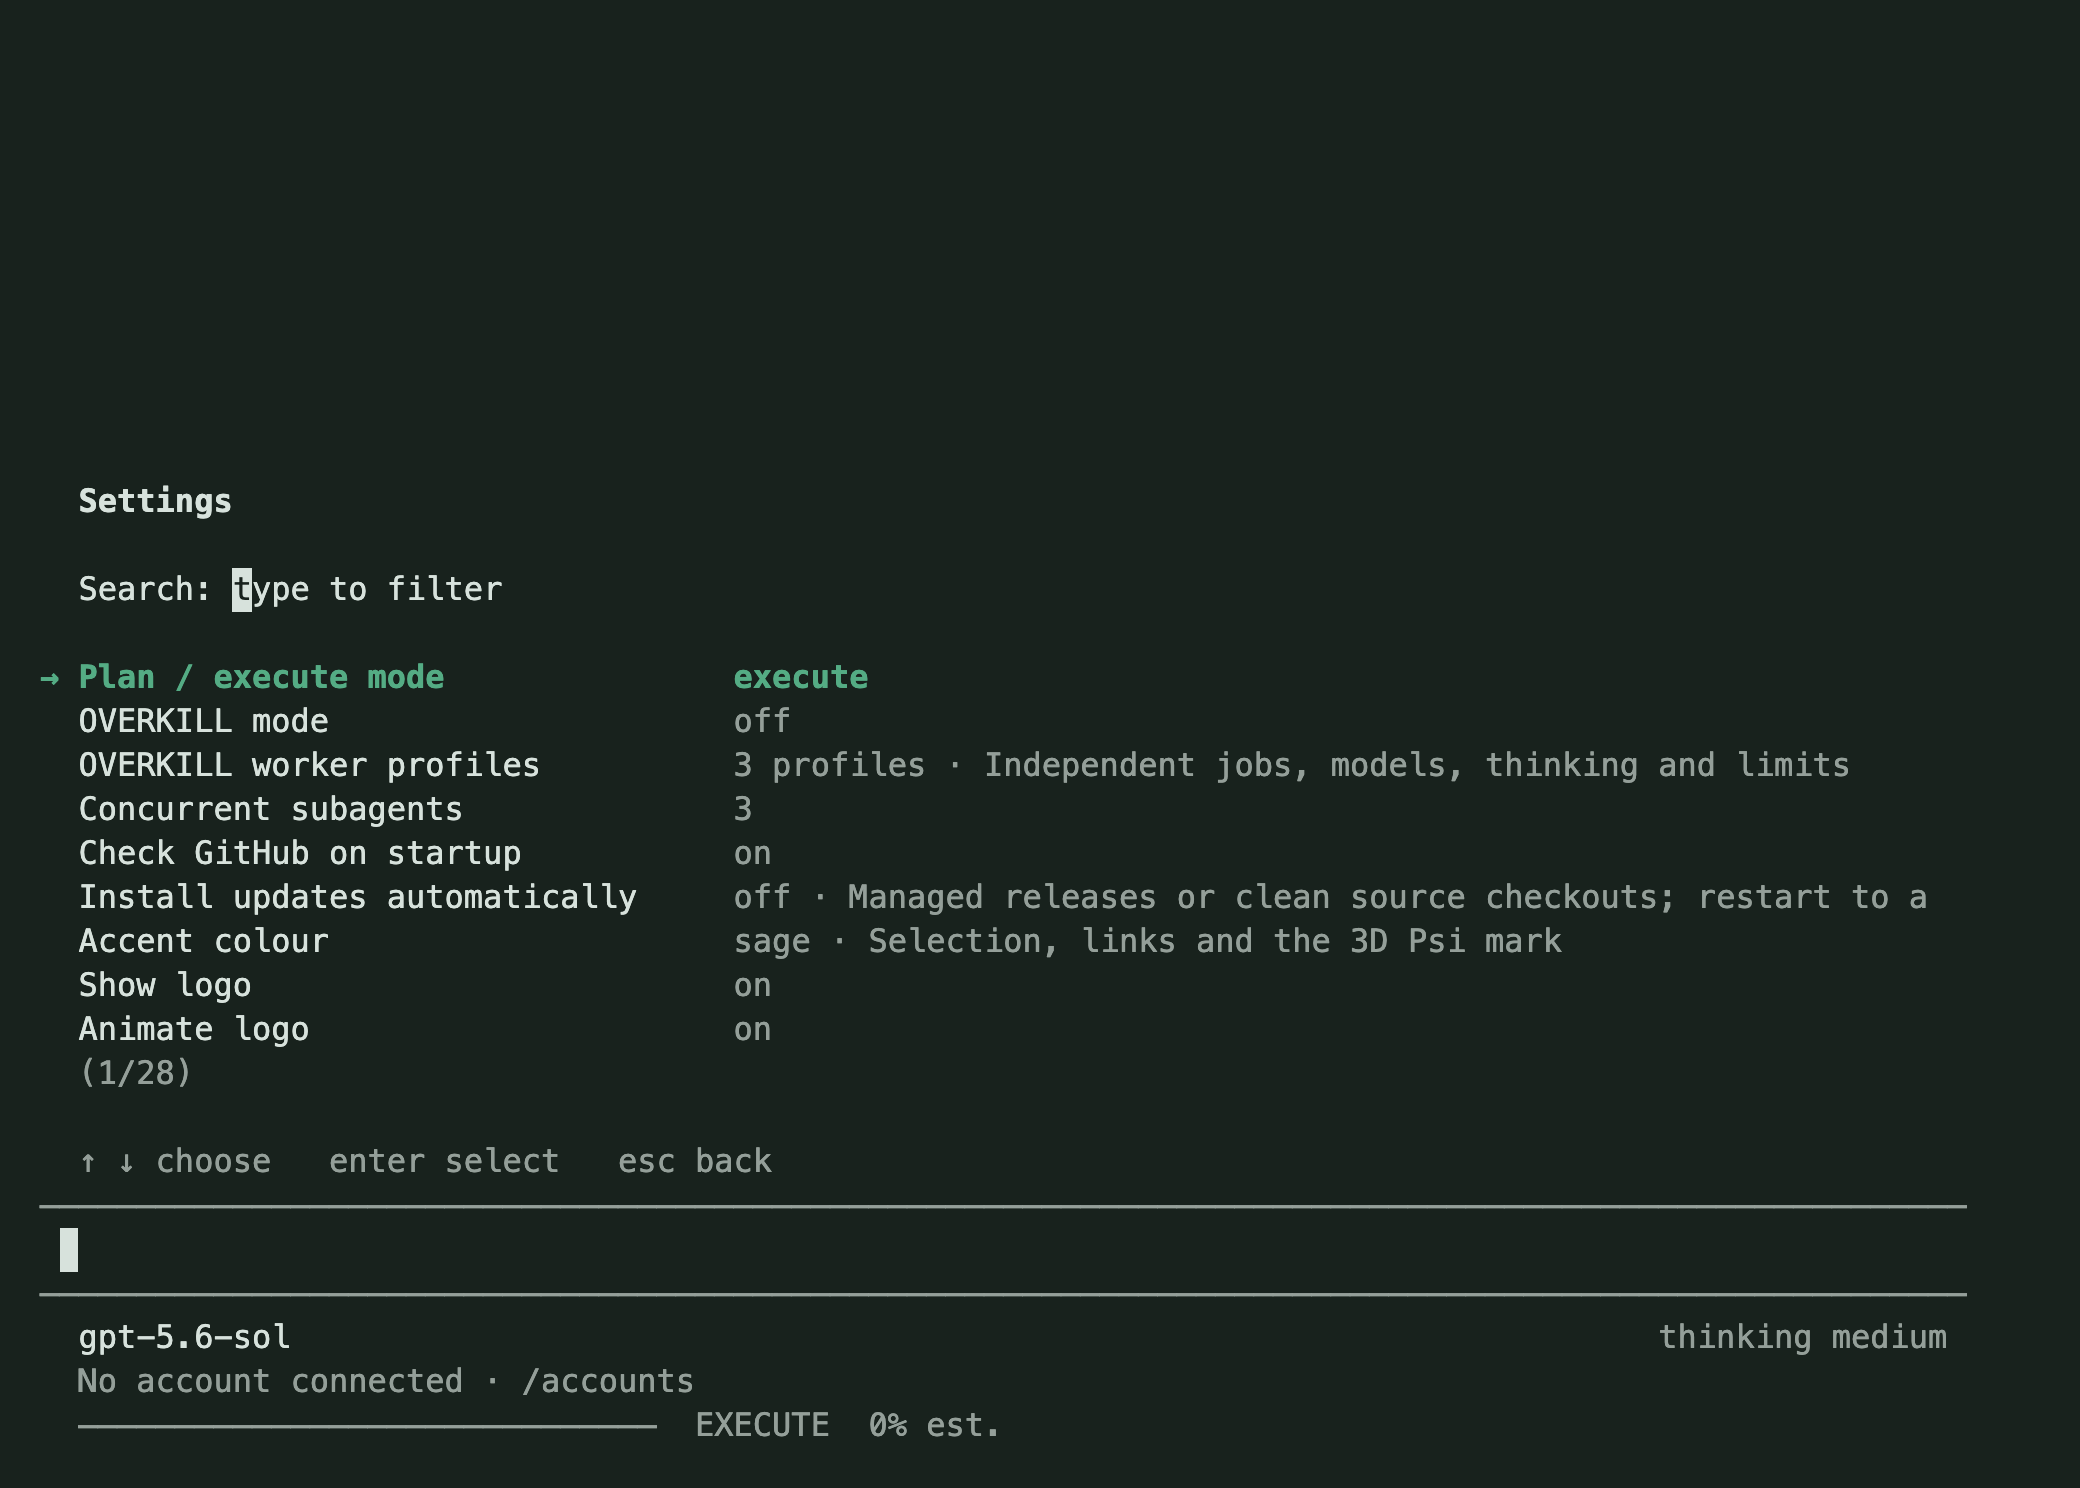
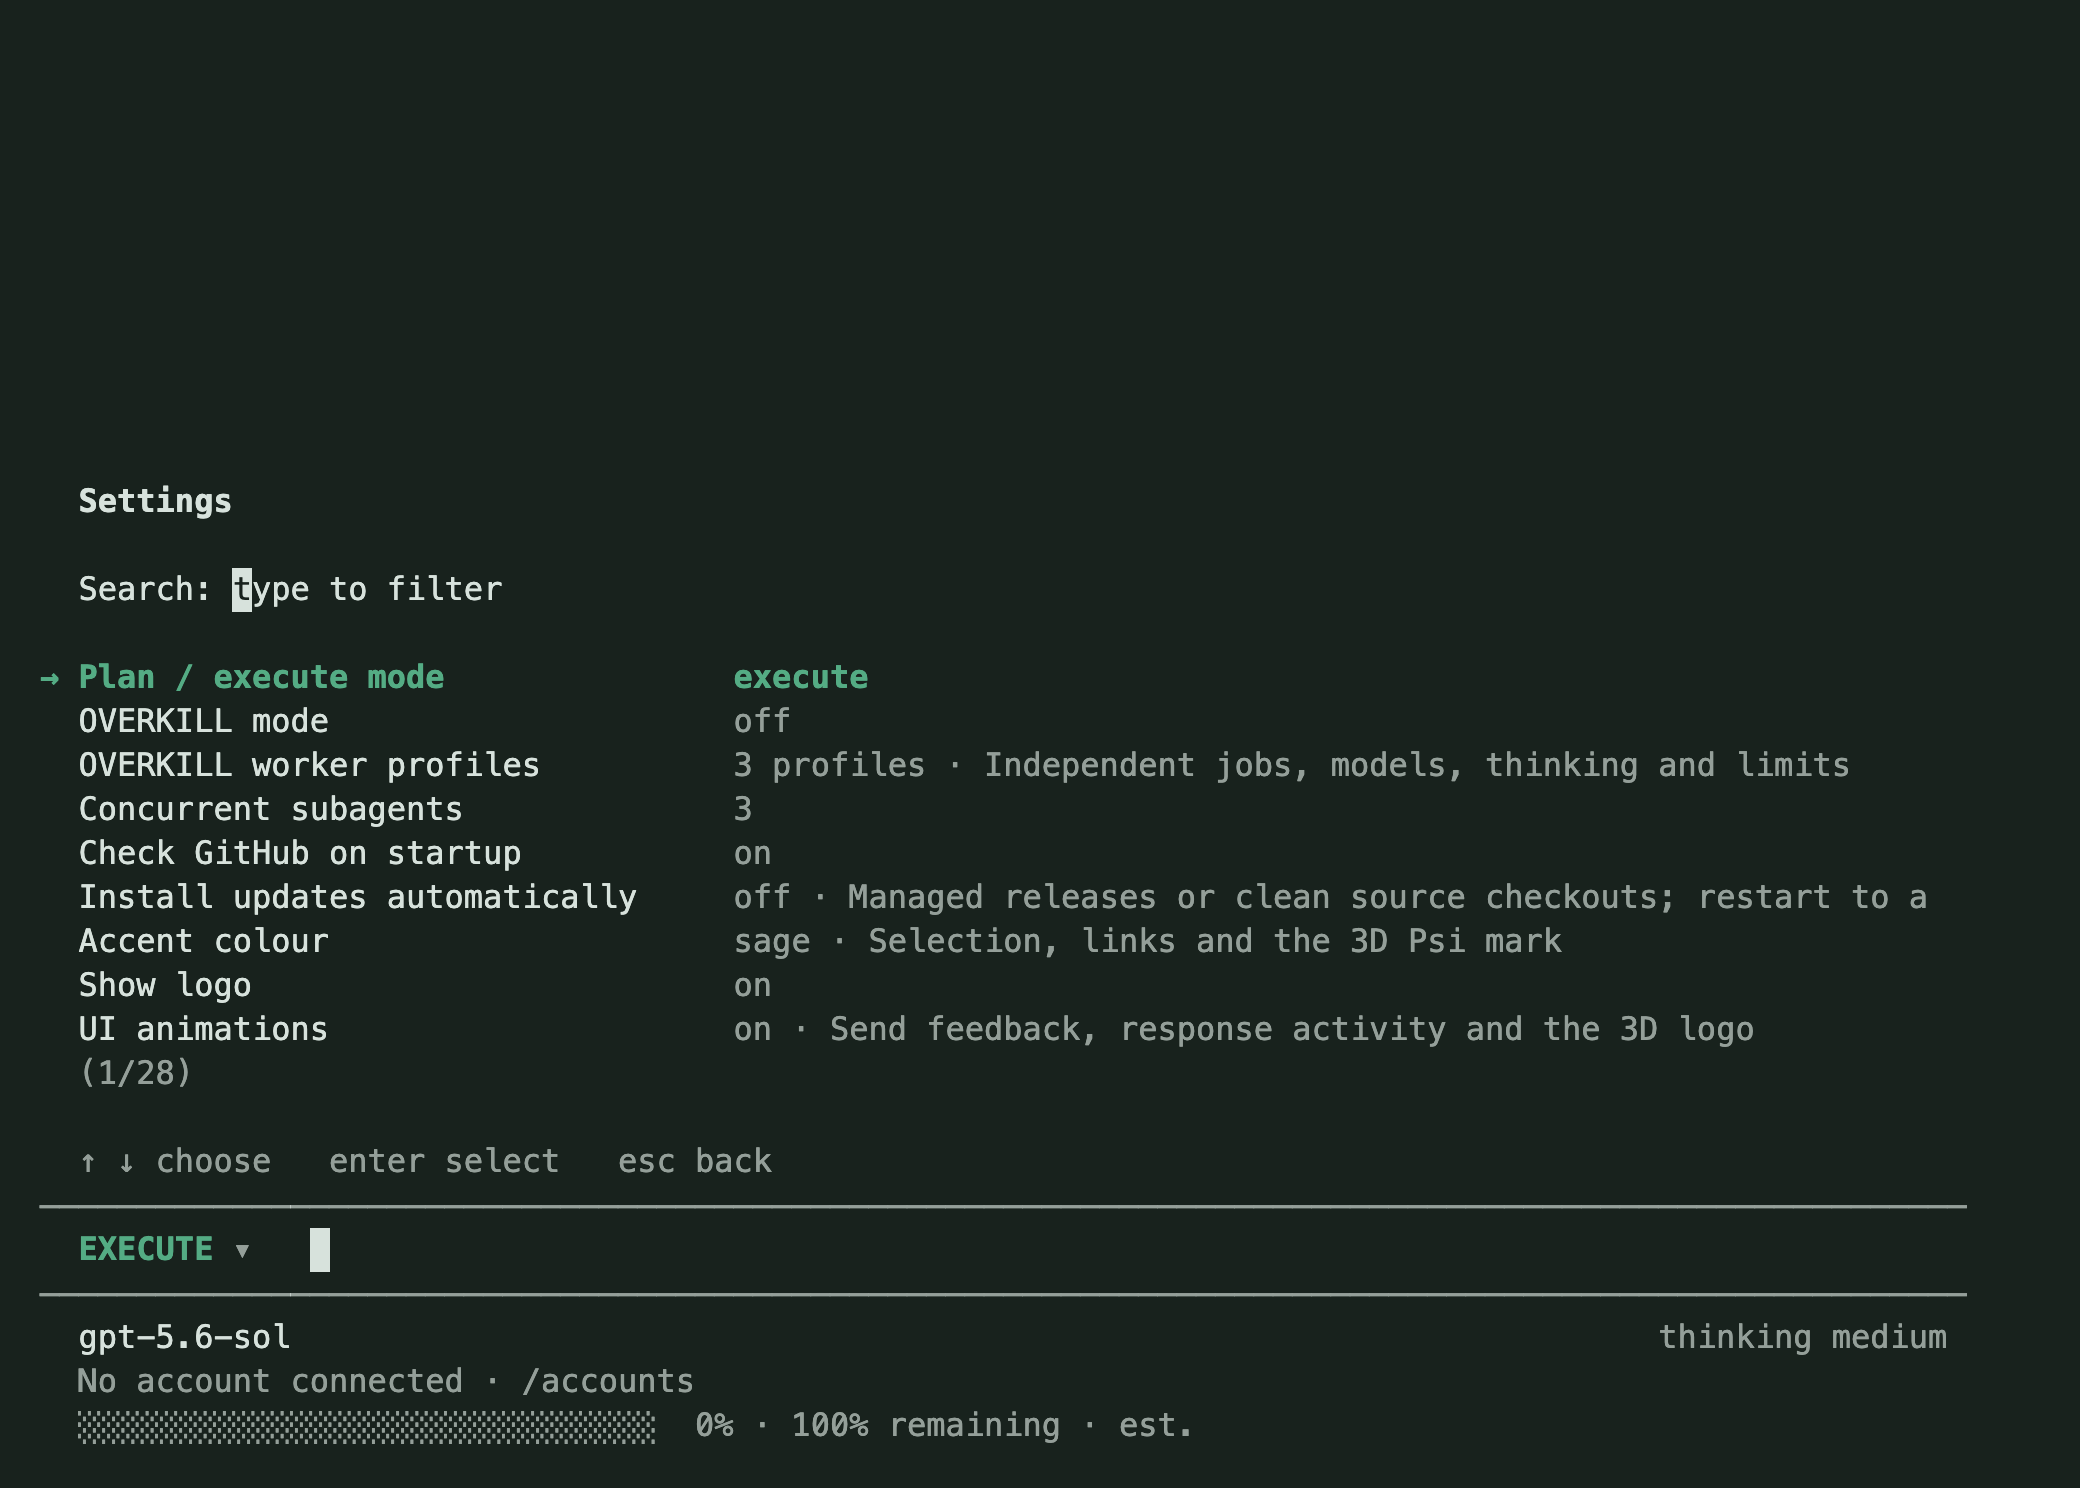
Polish message motion, response styling and inline composer controls

diff --git a/README.md b/README.md
@@ -57,11 +57,11 @@ Interactive startup checks the latest stable GitHub release in the background, a
 
 Psi grants the directory where the session starts. No AI tool can grant additional access. `/directory` lists the session's allowlist; `/directory add /path/to/project` and `/directory remove /path/to/project` change it. File tools resolve symlinks before access, and shell processes inherit an OS boundary. System executables/runtime libraries are available read-only; Psi manages its own scratch files, session artifacts and experiment evidence. Provider credentials and the real HOME are excluded from tool environments. The isolated shell HOME is a private scratch directory, so CLIs needing existing personal credentials require deliberate setup within the permitted directories.
 
-Press **Shift+Tab** for **PLAN** mode. The model can inspect files/websites and record a plan, but cannot edit project files, run shell/build commands, evaluate arbitrary browser scripts or perform live transactions. It can use the conversation to request missing information. Switch back to **EXECUTE** to implement the agreed plan. A mode change during inference is enforced before the returned tool calls run.
+Click the mode control inside the input row, or press **Shift+Tab**, for **PLAN** mode. The model can inspect files/websites and record a plan, but cannot edit project files, run shell/build commands, evaluate arbitrary browser scripts or perform live transactions. It can use the conversation to request missing information. Switch back to **EXECUTE** to implement the agreed plan. A mode change during inference is enforced before the returned tool calls run.
 
 Open `/effort`, then press **Tab** to toggle **OVERKILL**. Use `/agents` or the worker entry in `/settings` to set concurrency and edit each worker's name, job, model, thinking, plan/execute mode, request limit and budget independently. Workers inherit the approved directories, use separate durable model sessions, and cannot create nested workers. A plan-mode parent always forces read-only workers. The AI can spawn, send follow-ups, inspect, await and stop them through `agent`; completed workers can resume for follow-up tasks. Returned worker usage is included exactly once in parent session accounting. Per-worker budgets are capped to a share of the parent's remaining configured budget when a worker starts.
 
-Tool names, brief result previews, model updates and worker lifecycle events appear in the conversation. The bottom bar shows mode and **estimated** completion against the model's recorded plan. This percentage is not an independently measured guarantee of goal achievement. A verified loop finish still requires evidence.
+Tool names, brief result previews, model updates and worker lifecycle events appear in the conversation. The mode control sits beside the draft text. The bottom bar uses solid blocks and shows **estimated** completion, plus the remaining percentage on wide terminals. This percentage is not an independently measured guarantee of goal achievement. A verified loop finish still requires evidence.
 
 ## Providers and accounts
 
@@ -135,11 +135,15 @@ Custom endpoint prices default to unknown. Use `/settings` → **API pricing for
 
 The prompt stays pinned to the bottom of the terminal while the conversation scrolls above it. Its footer shows the model on the left and thinking level aligned to the right, without a provider label. The next row shows the selected account: subscription accounts display only reported usage windows; metered API accounts display the current session cost. No provider label appears in either footer row.
 
-Click the compact shaded Ψ mark to expand it into a shaded, rotating 3D mesh. Click again or press Escape to return to your unchanged prompt. `/logo` provides the same interaction from the keyboard. Animation renders only while open and adds no dependencies.
+Click the compact shaded Ψ mark to expand it into a shaded, rotating 3D mesh. Click again or press Escape to return to your unchanged prompt. `/logo` provides the same interaction from the keyboard. The 3D animation renders only while open and adds no dependencies.
 
-Type to filter pickers, use arrows to navigate and Enter to select. Tab completes slash commands and paths. Shift+Enter creates a newline. Escape twice within 600 ms stops the current run. Shift+Tab toggles plan/execute mode. Ctrl+C cancels a prompt or run and exits when idle. A message entered during a run is saved and queued after the next tool boundary. Remaining stale calls in that response are skipped with recorded outcomes before the correction reaches the model.
+Type to filter pickers, use arrows to navigate and Enter to select. Tab completes slash commands and paths. Shift+Enter creates a newline. The clickable mode control shares the input row with your draft. Escape twice within 600 ms stops the current run. Shift+Tab toggles plan/execute mode. Ctrl+C cancels a prompt or run and exits when idle. A message entered during a run is saved and queued after the next tool boundary. Remaining stale calls in that response are skipped with recorded outcomes before the correction reaches the model.
 
 Stopping the AI also signals its subagents. Standalone detached jobs can continue; inspect them with `psi jobs` and terminate them with `psi jobs stop <id>`. Revoking a directory stops active session jobs before changing the allowlist. Live-controller cleanup can take several minutes.
+
+Messages use a brief eased send indicator and a compact **Ψ Psi** response header. Active model/tool work pulses subtly; text streams immediately. Tool rows update in place with their outcome, duration and a short preview, including background job IDs. Disable **UI animations** in `/settings` for static activity labels. Animation timers stop when work and send feedback settle.
+
+![Psi conversation and inline mode control](docs/conversation.png)
 
 ## Usage and multiple accounts
 
@@ -156,7 +160,7 @@ Enable **Automatic account switching** in `/settings` to move between saved acco
 `/settings` opens a searchable keyboard UI. Type to filter, use arrows and Enter to choose, and Escape to go back. Settings persist under `~/.psi/config.json`.
 
 - Sage, cyan, blue, violet, rose or amber accents, plus custom hex/OKLCH colours.
-- Logo visibility, animation and account usage visibility.
+- Logo visibility, UI animations and account usage visibility.
 - Automatic account switching, threshold, explicit fallback models and usage refresh interval.
 - Main/compaction model, thinking, output tokens, prompt-cache retention and tool preview size.
 - Read concurrency, loop retry delay, budget/request limits, API prices, Battlecode CLI and debug logging.

diff --git a/DESIGN.md b/DESIGN.md
@@ -14,11 +14,11 @@ Use the terminal's configured monospace font. Bold distinguishes product and pic
 
 ## Layout
 
-A fullscreen terminal viewport contains the workspace header, a scrolling conversation and inline selection panel. The multiline prompt is pinned to the bottom on startup, during output and through resizes. The first row below it shows the model on the left and thinking level aligned to the right, with no provider label. A second row shows the active account name. Subscription accounts display only reported usage windows (5h/7d when supplied), omitting absent/unlimited windows. Metered API accounts display the current session cost, or cost unavailable when pricing is unknown. Add one compact bottom row for estimated plan completion and the PLAN/EXECUTE mode. Mark the percentage as an estimate. Conversation scrolling and selection use the terminal renderer; the visible document returns to shell scrollback on exit. Pickers filter immediately and expose keyboard hints. Narrow widths truncate metadata before primary actions. Tool results show short previews, with full results in session artifacts.
+A fullscreen terminal viewport contains the workspace header, a scrolling conversation and inline selection panel. The multiline prompt is pinned to the bottom on startup, during output and through resizes. The first row below it shows the model on the left and thinking level aligned to the right, with no provider label. A second row shows the active account name. Subscription accounts display only reported usage windows (5h/7d when supplied), omitting absent/unlimited windows. Metered API accounts display the current session cost, or cost unavailable when pricing is unknown. Place the clickable PLAN/EXECUTE control inside the first draft row, with a fixed gutter that preserves the editor cursor and wrapping. Keep one compact bottom row for solid-block estimated progress, with completion and remaining percentages on wider terminals. Mark the percentage as an estimate. Conversation scrolling and selection use the terminal renderer; the visible document returns to shell scrollback on exit. Pickers filter immediately and expose keyboard hints. Narrow widths truncate metadata before primary actions. Tool results show short previews, with full results in session artifacts.
 
 ## Interaction
 
-Shift+Tab toggles PLAN/EXECUTE. Tab inside /effort toggles OVERKILL. Slash commands and Tab completion; Enter submits; Shift+Enter adds a line; Escape closes a picker; two Escapes within 600 ms stop a run; Ctrl+C cancels a prompt or active run and exits when idle. Pickers support arrow keys and text search. Settings use a searchable list with values and short explanations, then a focused picker or input for the chosen setting. Hide the workspace logo while a picker is open to preserve space. Appearance updates immediately; execution settings queue until the next safe boundary. The logo alone has an explicitly requested, click-triggered 3D view. It opens a rotating, shaded Ψ mesh occupying at most half the terminal height and 52 columns, at 24 fps and exits on click or Escape without changing the prompt. `/logo` supplies a keyboard alternative. Stop its timer completely on close and exit. No animation plays on startup. Streamed output is coalesced into approximately 35ms render windows. UI retains at most 100 transcript components while session evidence remains on disk.
+Shift+Tab toggles PLAN/EXECUTE. Tab inside /effort toggles OVERKILL. Slash commands and Tab completion; Enter submits; Shift+Enter adds a line; Escape closes a picker; two Escapes within 600 ms stop a run; Ctrl+C cancels a prompt or active run and exits when idle. Pickers support arrow keys and text search. Settings use a searchable list with values and short explanations, then a focused picker or input for the chosen setting. Hide the workspace logo while a picker is open to preserve space. Appearance updates immediately; execution settings queue until the next safe boundary. Messages have a small Ψ/Psi header, aligned response text and one row per tool that updates in place. A user send receives a 240 ms eased accent transition; an active response or tool uses a restrained accent pulse and stable-width status text. Streamed text is shown immediately, without a typewriter delay. The global motion timer runs at most 12.5 frames per second while work or send feedback is active, and stops when idle, disabled or closed. UI animations can be disabled in settings. The logo also has an explicitly requested, click-triggered 3D view. It opens a rotating, shaded Ψ mesh occupying at most half the terminal height and 52 columns, at 24 fps and exits on click or Escape without changing the prompt. `/logo` supplies a keyboard alternative. Stop its timer completely on close and exit. No animation plays on startup. Streamed output is coalesced into approximately 35ms render windows. UI retains at most 100 transcript components while session evidence remains on disk.
 
 ## Assets
 

diff --git a/docs/VERIFICATION.md b/docs/VERIFICATION.md
@@ -2,7 +2,7 @@
 
 Verified locally on 2026-10-31 (Australia/Sydney), using isolated temporary homes for tests.
 
-- `npm run verify`: syntax checks and **72 passing tests**.
+- `npm run verify`: syntax checks and **75 passing tests**.
 - Real HTTP SSE requests to a local OpenAI-compatible fixture executed file writes, a detached shell job, website extraction and objective completion. No paid inference was used.
 - A new process can reconstruct messages, usage, pending goals and tool outcomes from the session journal.
 - Tested serialized multi-account refresh, private credential file mode, transient retries, authentication failure handling, budget/request limits, compaction, torn-journal recovery, writer contention, stale-session rejection and cancellation.
@@ -66,3 +66,11 @@ Actual API invoices and real competition transactions were not exercised in this
 - Windows CI exposed transient file-sharing violations during atomic snapshot replacement. Writes now retry those bounded errors while preserving the prior committed file; a fault-injection test covers the behavior. Worker completion/exit races and cross-platform graceful cancellation also have explicit tests.
 
 - A Linux watcher race could defer completed jobs until the 30-second backup check. Completion events arriving during an in-flight read now schedule a fresh read, with a deterministic regression test.
+
+## Message and composer polish
+
+- The actual terminal renderer verifies the PLAN/EXECUTE control in the draft row, mouse toggling, multiline draft preservation and narrow-width bounds.
+- Deterministic animation-time checks verify eased send feedback and active response motion, immediate full streamed text, and timer cleanup at completion and close.
+- Disabled UI animations retain static response/tool state without animation timers. Tool-only requests leave no empty assistant message, completed tool rows update in place, and background job identity/status remain visible.
+- Progress uses full-height solid blocks. Wide terminals also show the estimated remaining percentage.
+- `docs/conversation.png` is a preview from the actual renderer with illustrative data, not evidence of a live Battlecode experiment.

diff --git a/PRODUCT.md b/PRODUCT.md
@@ -30,4 +30,4 @@ Unrequested ambient animation, busy dashboards, oversized tool output, nested ac
 
 ## Accessibility & Inclusion
 
-Keyboard-first operation, clear text, standard terminal scrolling and a readable narrow layout. All status colors have text labels. No ambient animation; the explicitly requested 3D logo is opt-in via click or `/logo` and can be dismissed immediately. Inherit the user's terminal font, palette and background. No additional accessibility needs were specified.
+Keyboard-first operation, clear text, standard terminal scrolling and a readable narrow layout. All status colors have text labels. No idle animation. Brief send feedback and restrained active-response/tool motion clarify work; UI animations can be disabled in settings. The 3D logo is opt-in via click or `/logo` and can be dismissed immediately. Inherit the user's terminal font, palette and background. No additional accessibility needs were specified.
